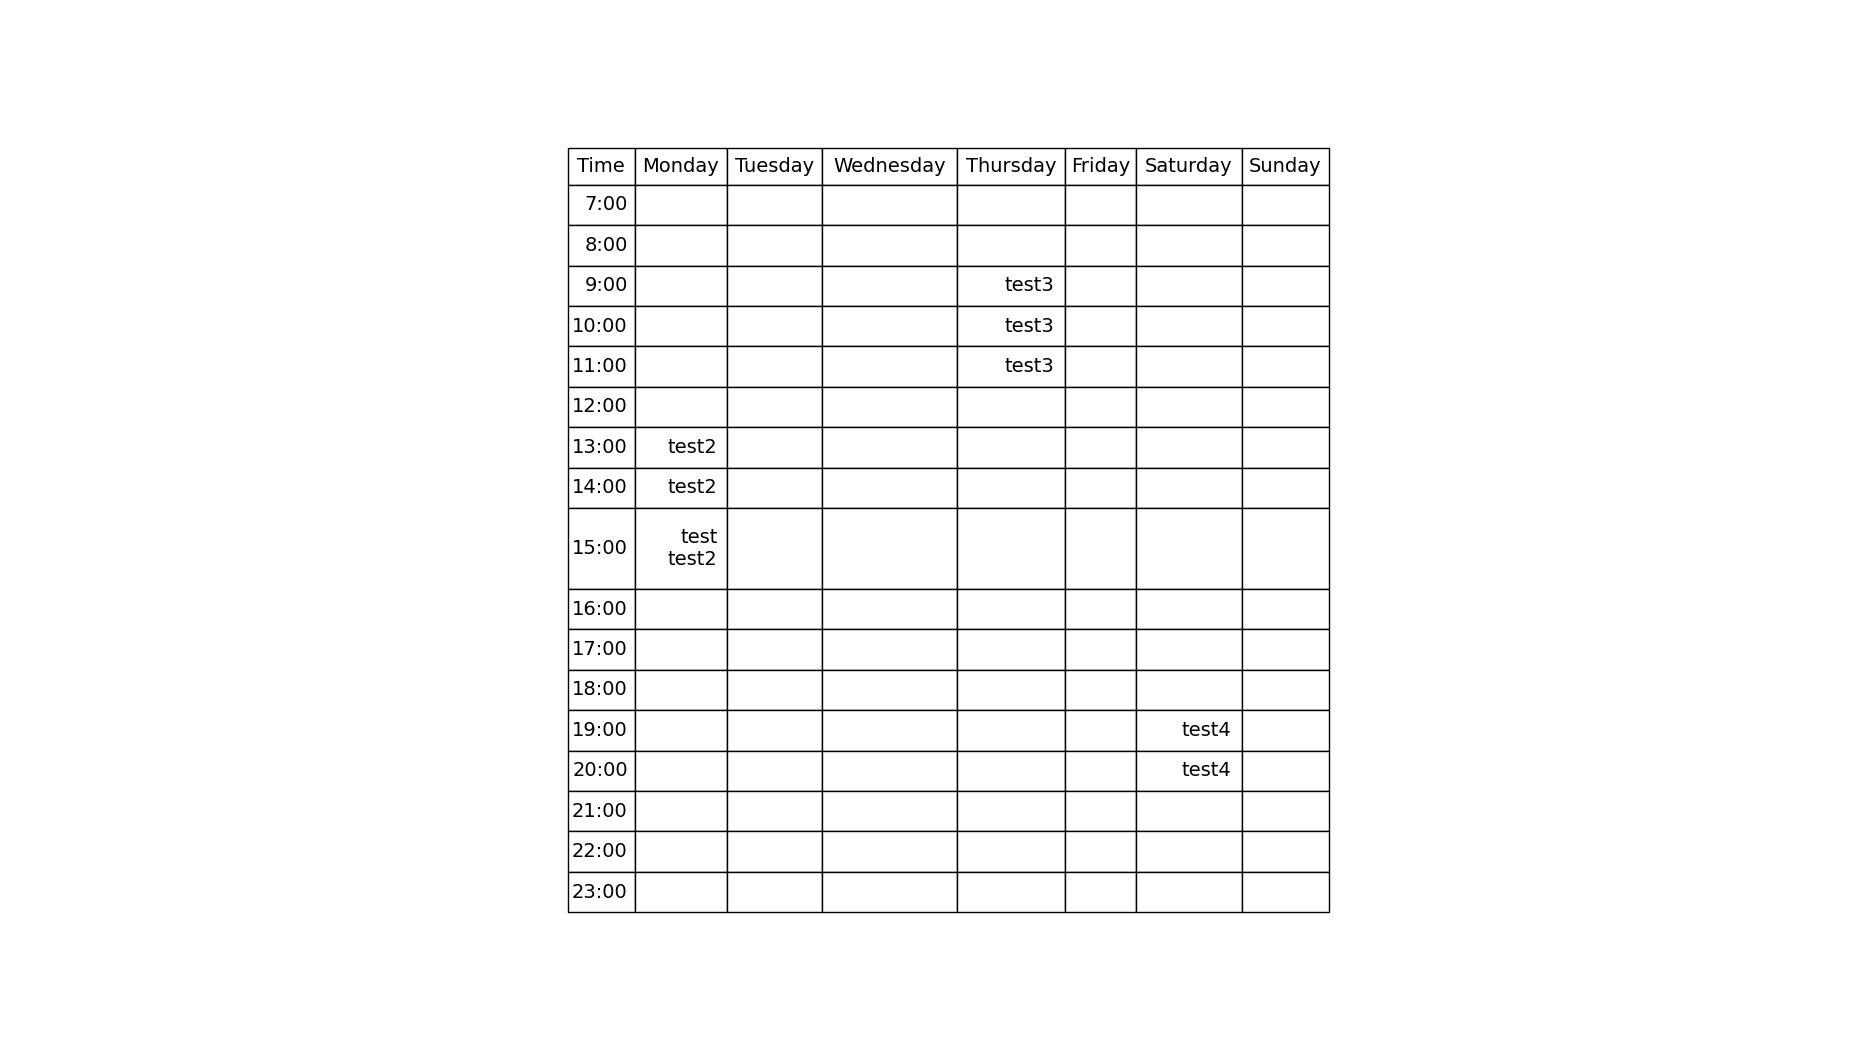
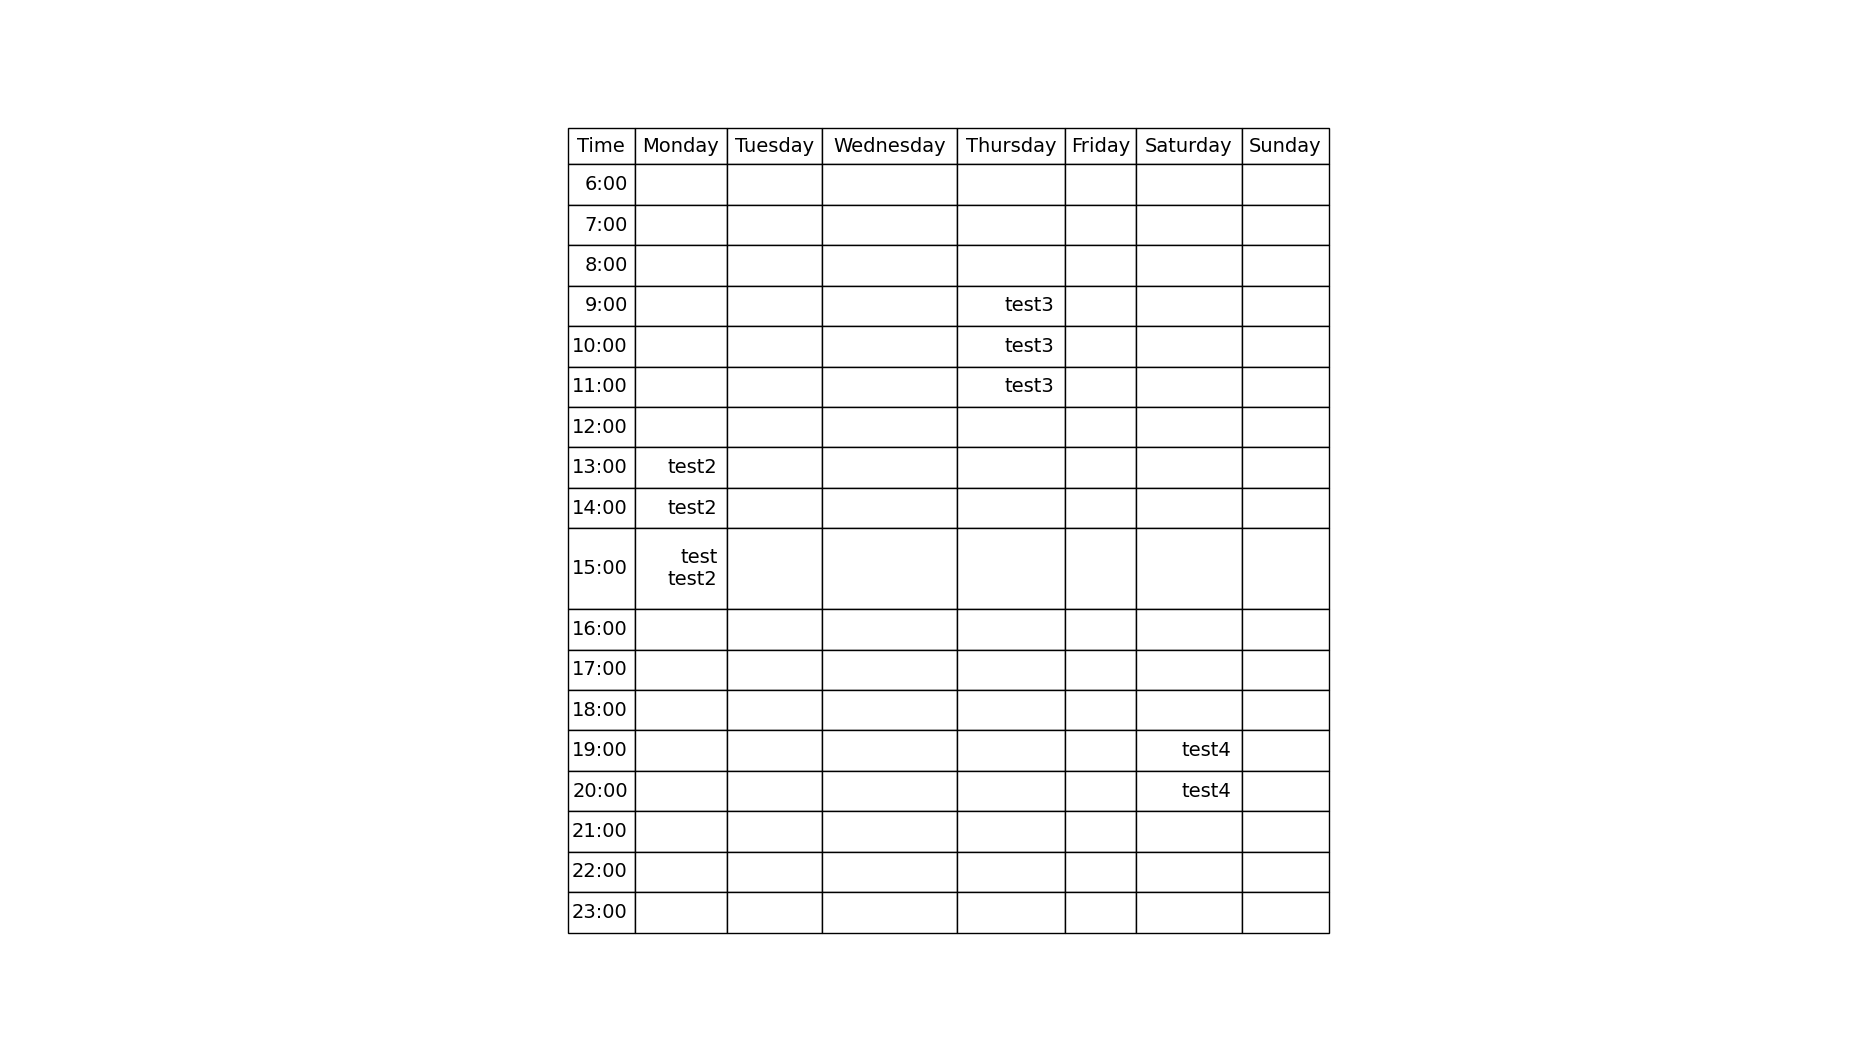
organized the code

Changed region(s): [[0.3081, 0.1219, 0.7395, 0.9143]]

diff --git a/scheduler.py b/scheduler.py
@@ -1,120 +1,8 @@
-import sqlite3
-from sqlite3 import Error
+from config import DEBUG, START_OF_DAY_HOUR, END_OF_DAY_HOUR
 import matplotlib.pyplot as plt
 import matplotlib.table
 import pandas as pd
-
-DEBUG = True
-
-
-class Database:
-    def __init__(self, path):
-        self.path = path
-        self.conn = None
-
-        self.create_connection()
-
-    def create_connection(self):
-        """ create a database connection to a SQLite database """
-
-        if self.conn is not None:
-            return self.conn
-
-        try:
-            self.conn = sqlite3.connect(self.path, isolation_level=None)
-            print("Connection to SQLite DB successful")
-        except Error as e:
-            print(f"The error '{e}' occurred")
-
-        return self.conn
-
-    def create_table(self, create_table_sql):
-        """ create a table from the create_table_sql statement """
-
-        if DEBUG:
-            print("DB.create_table: ", create_table_sql)
-
-        try:
-            self.conn.execute(create_table_sql)
-            print("Table created successfully")
-        except Error as e:
-            print(f"The error '{e}' occurred")
-
-        return self.conn
-
-    def insert(self, insert_sql):
-        """ insert a row into a table from the insert_sql statement """
-
-        if DEBUG:
-            print("DB.insert: ", insert_sql)
-
-        try:
-            self.conn.execute(insert_sql)
-            print("Row inserted successfully")
-        except Error as e:
-            print(f"The error '{e}' occurred")
-
-        return self.conn
-
-    def insert_with_output_id(self, insert_sql):
-        """ insert a row into a table from the insert_sql statement and return the id of the inserted row """
-
-        if DEBUG:
-            print("DB.insert_with_output_id: ", insert_sql)
-
-        cursor = None
-
-        try:
-            cursor = self.conn.execute(insert_sql)
-            print("Row inserted successfully")
-        except Error as e:
-            print(f"The error '{e}' occurred")
-
-        return cursor.lastrowid
-
-    def select(self, select_sql):
-        """ select rows from a table from the select_sql statement """
-
-        if DEBUG:
-            print("DB.select: ", select_sql)
-
-        cursor = None
-
-        try:
-            cursor = self.conn.execute(select_sql)
-            print("Rows selected successfully")
-        except Error as e:
-            print(f"The error '{e}' occurred")
-
-        return cursor
-
-    def update(self, update_sql):
-        """ update rows from a table from the update_sql statement """
-
-        if DEBUG:
-            print("DB.update: ", update_sql)
-
-        try:
-            self.conn.execute(update_sql)
-            print("Rows updated successfully")
-        except Error as e:
-            print(f"The error '{e}' occurred")
-
-        return self.conn
-
-    def delete(self, delete_sql):
-        """ delete rows from a table from the delete_sql statement """
-
-        if DEBUG:
-            print("DB.delete: ", delete_sql)
-
-        try:
-            self.conn.execute(delete_sql)
-            print("Rows deleted successfully")
-        except Error as e:
-            print(f"The error '{e}' occurred")
-
-        return self.conn
+from db import Database
 
 
 class Scheduler:
@@ -322,8 +210,8 @@ class Scheduler:
             columns=['Time', 'Monday', 'Tuesday', 'Wednesday', 'Thursday', 'Friday', 'Saturday', 'Sunday'])
 
         # Add the time to the dataframe
-        for i in range(7, 24):
-            df.loc[i - 7, 'Time'] = f'{i}:00'
+        for i in range(START_OF_DAY_HOUR, END_OF_DAY_HOUR):
+            df.loc[i - START_OF_DAY_HOUR, 'Time'] = f'{i}:00'
 
         # Add all activities to the dataframe
         print(activities)
@@ -336,8 +224,8 @@ class Scheduler:
             end_time = pd.to_datetime(activity[7]).strftime('%H:%M')
 
             # Find the start and end time index
-            start_time_index = int(start_time.split(':')[0]) - 7
-            end_time_index = int(end_time.split(':')[0]) - 7
+            start_time_index = int(start_time.split(':')[0]) - START_OF_DAY_HOUR
+            end_time_index = int(end_time.split(':')[0]) - START_OF_DAY_HOUR
 
             # Find the title
             title = activity[2]
@@ -368,17 +256,17 @@ class Scheduler:
         table.auto_set_column_width(col=list(range(len(df.columns))))
 
         # Set the cell height
-        for i in range(7, 24):
+        for i in range(START_OF_DAY_HOUR, END_OF_DAY_HOUR):
             height = 0.05
 
             # check the number of lines in the cell
             for j in range(1, 8):
-                num_lines = len(table[(i - 6, j)].get_text().get_text().split('\n'))
+                num_lines = len(table[(i - (START_OF_DAY_HOUR - 1), j)].get_text().get_text().split('\n'))
                 height = max(height, num_lines * 0.05)
 
             # set the cell heights
             for j in range(0, 8):
-                table[(i - 6, j)].set_height(height)
+                table[(i - (START_OF_DAY_HOUR - 1), j)].set_height(height)
 
         # Set the font size
         table.set_fontsize(14)

diff --git a/db.py b/db.py
@@ -1,0 +1,113 @@
+import sqlite3
+from config import DEBUG
+from sqlite3 import Error
+
+
+class Database:
+    def __init__(self, path):
+        self.path = path
+        self.conn = None
+
+        self.create_connection()
+
+    def create_connection(self):
+        """ create a database connection to a SQLite database """
+
+        if self.conn is not None:
+            return self.conn
+
+        try:
+            self.conn = sqlite3.connect(self.path, isolation_level=None)
+            print("Connection to SQLite DB successful")
+        except Error as e:
+            print(f"The error '{e}' occurred")
+
+        return self.conn
+
+    def create_table(self, create_table_sql):
+        """ create a table from the create_table_sql statement """
+
+        if DEBUG:
+            print("DB.create_table: ", create_table_sql)
+
+        try:
+            self.conn.execute(create_table_sql)
+            print("Table created successfully")
+        except Error as e:
+            print(f"The error '{e}' occurred")
+
+        return self.conn
+
+    def insert(self, insert_sql):
+        """ insert a row into a table from the insert_sql statement """
+
+        if DEBUG:
+            print("DB.insert: ", insert_sql)
+
+        try:
+            self.conn.execute(insert_sql)
+            print("Row inserted successfully")
+        except Error as e:
+            print(f"The error '{e}' occurred")
+
+        return self.conn
+
+    def insert_with_output_id(self, insert_sql):
+        """ insert a row into a table from the insert_sql statement and return the id of the inserted row """
+
+        if DEBUG:
+            print("DB.insert_with_output_id: ", insert_sql)
+
+        cursor = None
+
+        try:
+            cursor = self.conn.execute(insert_sql)
+            print("Row inserted successfully")
+        except Error as e:
+            print(f"The error '{e}' occurred")
+
+        return cursor.lastrowid
+
+    def select(self, select_sql):
+        """ select rows from a table from the select_sql statement """
+
+        if DEBUG:
+            print("DB.select: ", select_sql)
+
+        cursor = None
+
+        try:
+            cursor = self.conn.execute(select_sql)
+            print("Rows selected successfully")
+        except Error as e:
+            print(f"The error '{e}' occurred")
+
+        return cursor
+
+    def update(self, update_sql):
+        """ update rows from a table from the update_sql statement """
+
+        if DEBUG:
+            print("DB.update: ", update_sql)
+
+        try:
+            self.conn.execute(update_sql)
+            print("Rows updated successfully")
+        except Error as e:
+            print(f"The error '{e}' occurred")
+
+        return self.conn
+
+    def delete(self, delete_sql):
+        """ delete rows from a table from the delete_sql statement """
+
+        if DEBUG:
+            print("DB.delete: ", delete_sql)
+
+        try:
+            self.conn.execute(delete_sql)
+            print("Rows deleted successfully")
+        except Error as e:
+            print(f"The error '{e}' occurred")
+
+        return self.conn

diff --git a/config.py b/config.py
@@ -1,0 +1,3 @@
+DEBUG = True
+START_OF_DAY_HOUR = 6
+END_OF_DAY_HOUR = 24
